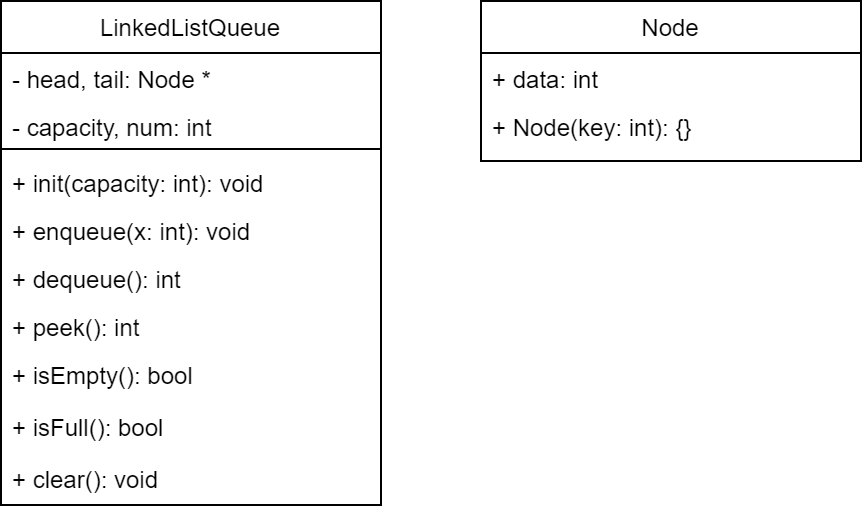
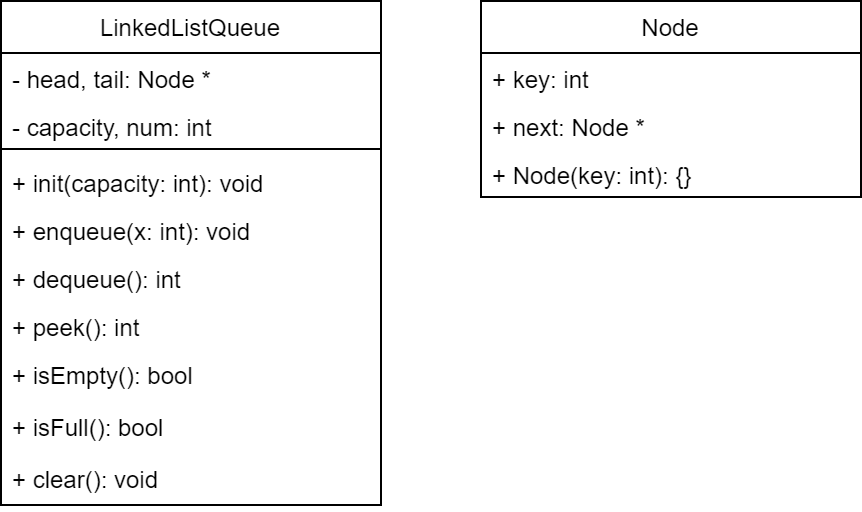
update

Changed region(s): [[0.5429, 0.3125, 1.0, 0.4062], [0.6032, 0.2188, 0.8144, 0.2812], [0.5731, 0.125, 0.6937, 0.1875]]

diff --git a/21127337/21127337_W02_03/21127337_Ex03/source.cpp b/21127337/21127337_W02_03/21127337_Ex03/source.cpp
@@ -19,6 +19,9 @@ void LinkedListQueue::output()
 }
 void LinkedListQueue::enqueue(int x)
 {
+    num++;
+    if (isFull())
+        return;
     Node *t = new Node(x);
     if (tail == NULL)
     {
@@ -31,6 +34,7 @@ void LinkedListQueue::enqueue(int x)
 int LinkedListQueue::dequeue()
 {
     int x = -1;
+    num--;
     if (head == NULL)
         return x;
     Node *t = head;
@@ -49,19 +53,11 @@ int LinkedListQueue::peek()
 
 bool LinkedListQueue::isEmpty()
 {
-    if (head == NULL || tail == NULL)
-        return true;
-    return false;
+    return num == 0;
 }
 
 bool LinkedListQueue::isFull()
 {
-    Node *t = head;
-    while (t)
-    {
-        num++;
-        t = t->next;
-    }
     return num == capacity;
 }
 void LinkedListQueue::clear()
